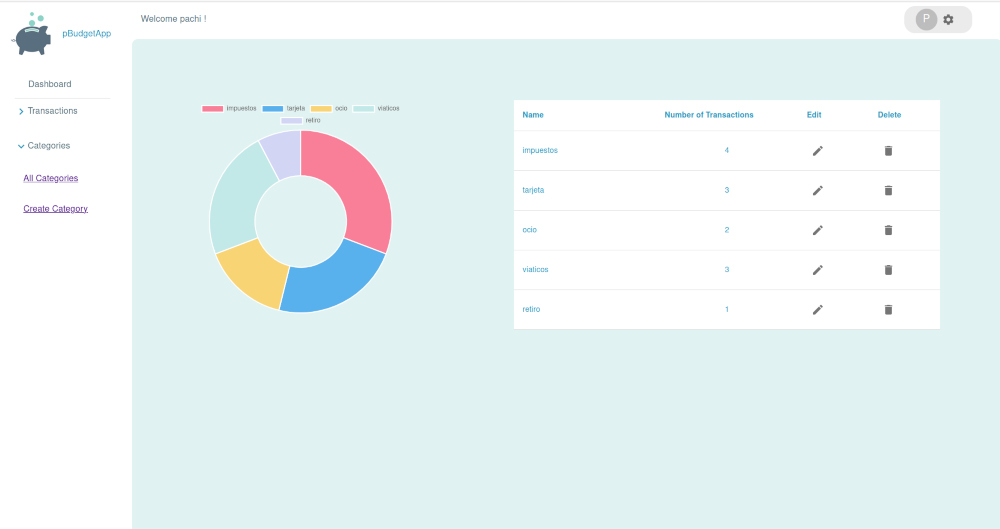
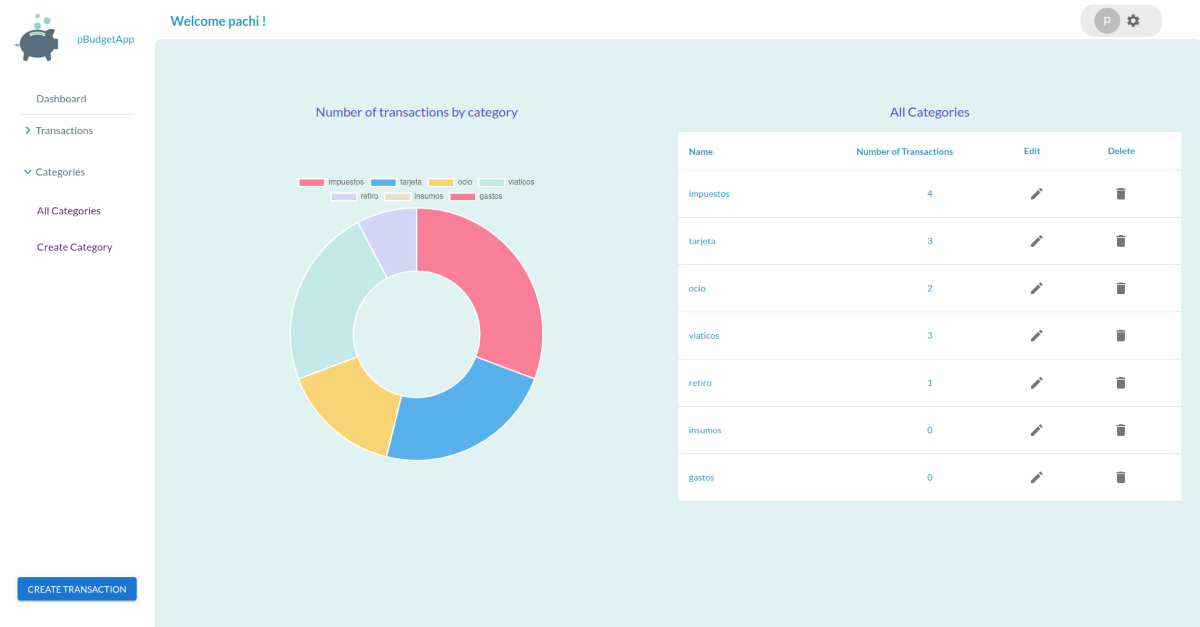
Fix bugs in css and readme

diff --git a/client/src/themeConfig.js b/client/src/themeConfig.js
@@ -1,6 +1,8 @@
 import { blueGrey } from "@mui/material/colors";
 import { createTheme } from "@mui/material/styles";
 
+const font = "'Lato', sans-serif";
+
 const theme = createTheme({
   breakpoints: {
     values: {
@@ -14,10 +16,12 @@ const theme = createTheme({
   boxSizing: "border-box",
   margin: 0,
   padding: 0,
-  h2: {
-    fontSize: "0.975rem",
-    fontWeight: 500,
+  h3: {
+    fontSize: "1.4rem",
+    color: "#2596be",
+    fontWeight: 700,
   },
+
   h5: {
     fontSize: "2.4",
     color: "#2596be",
@@ -46,11 +50,11 @@ const theme = createTheme({
       },
     },
   },
-  // typography: {
-  //   fontFamily: " 'Work Sans'",
-  //   fontSize: 14,
-  //   fontWeightLight: 300,
-  // },
+  typography: {
+    fontFamily: font,
+    fontWeight: 700,
+    fontSize: 14,
+  },
 
   components: {
     MuiListItemButton: {
@@ -88,13 +92,6 @@ const theme = createTheme({
       },
     },
   },
-  // MuiCssBaseline: {
-  //   styleOverrides: `@font-face{
-  //     font-family: 'Karla';
-  //     font-style: normal
-  //   }
-  //   `,
-  // },
 });
 
 export default theme;

diff --git a/client/src/Pages/AllCategories.js b/client/src/Pages/AllCategories.js
@@ -79,7 +79,7 @@ const AllCategories = () => {
       >
         <Grid container item spacing={2} justifyContent="center" lg={6}>
           <Grid item xs={6}>
-            <Typography align="center">
+            <Typography align="center" variant="h6" color="text.secondary">
               Number of transactions by category
             </Typography>
           </Grid>
@@ -89,7 +89,9 @@ const AllCategories = () => {
         </Grid>
         <Grid container item spacing={2} justifyContent="center" xs={12} lg={6}>
           <Grid item xs={6}>
-            <Typography align="center">All Categories</Typography>
+            <Typography align="center" variant="h6" color="text.secondary">
+              All Categories
+            </Typography>
           </Grid>
           <Grid item xs={12}>
             <ListOfCategoriesCard

diff --git a/client/src/Components/Header/HeaderBar.js b/client/src/Components/Header/HeaderBar.js
@@ -64,14 +64,16 @@ const HeaderBar = ({ handleDrawerToggle }) => {
         <Typography
           sx={{ display: { md: "none" } }}
           variant="h6"
-          color="text.blueGrey.600"
+          fontWeight="700"
+          color="text.secondary"
         >
           pBudgetApp
         </Typography>
         <Box sx={{ flexGrow: 10 }}>
           <Typography
-            varian="h6"
-            color="text.blueGrey.600"
+            variant="h6"
+            fontWeight="700"
+            color="text.primary"
             sx={{ display: { xs: "none", sm: "none", md: "block" } }}
           >
             Welcome {user && user.userFirstname} !

diff --git a/client/src/Pages/Dashboard.js b/client/src/Pages/Dashboard.js
@@ -95,8 +95,10 @@ const Dashboard = () => {
           </Grid>
         </Grid>
 
-        <Grid container p={2} xs={12} lg={12} sx={{ marginTop: "10px" }}>
-          <Typography>Your last ten recorded transactions</Typography>
+        <Grid container px={2} xs={12} lg={12} sx={{ marginTop: "10px" }}>
+          <Typography variant="h6" color="text.secondary">
+            Your last ten recorded transactions:
+          </Typography>
           <ListOfTransactionsCard
             transactionsDetails={allTransactionsDetails}
             allCategories={allCategories}

diff --git a/client/public/index.html b/client/public/index.html
@@ -24,6 +24,9 @@
       work correctly both with client-side routing and a non-root public URL.
       Learn how to configure a non-root public URL by running `npm run build`.
     -->
+    <link rel="preconnect" href="https://fonts.googleapis.com">
+<link rel="preconnect" href="https://fonts.gstatic.com" crossorigin>
+<link href="https://fonts.googleapis.com/css2?family=Lato:wght@100;300;400;700&display=swap" rel="stylesheet">
     <title>React App</title>
   </head>
   <body style="box-sizing: border-box; padding: 0; margin: 0;">

diff --git a/client/src/Components/WelcomeScreen/Login.js b/client/src/Components/WelcomeScreen/Login.js
@@ -18,7 +18,7 @@ const Login = () => {
       <Grid xs={10} lg={8} container item>
         <Grid container item justifyContent="center" padding="10px">
           <Grid item>
-            <Typography variant="h4" color="text.primary" textAlign="center">
+            <Typography variant="h3" color="text.primary" textAlign="center">
               Welcome to pBudgetApp!{" "}
             </Typography>
           </Grid>

diff --git a/client/src/Components/Sidebar/MenuCard.js b/client/src/Components/Sidebar/MenuCard.js
@@ -43,7 +43,6 @@ const MenuCard = () => {
             backgroundSize: "cover",
             width: "120px",
             height: "130px",
-            backgroundColor: "green",
           }}
         ></Grid>
         <Grid item width="100%">

diff --git a/README.md b/README.md
@@ -7,11 +7,11 @@
 #### Manage your personal budget, track your incomes and record your expenses 🚀
 
 ## Table of Contents
-1. [General Info](#1-General-Info)
-2. [Getting Started](#installation)
-3. [Project Structure and Funcionalities](#project-structure-and-funcionalities)
-4. [Technologies](#technologies)
-5. [Motivation](#5-Motivation)
+1. **General Info**
+2. **Getting Started**
+3. **Project Structure and Funcionalities**
+4. **Technologies**
+5. **Motivation**
 
 _______________________________________________________________________________
 
@@ -219,10 +219,10 @@ _______________________________________________________________________________
 							
 ## 4-Technologies 🛠
  
- ### Reactjs
+ ### ReactJs
  ### Material UI
  ### Express
- ### Sequelize-Postgresql
+ ### Sequelize-PostgreSql
  
 _______________________________________________________________________________
 
